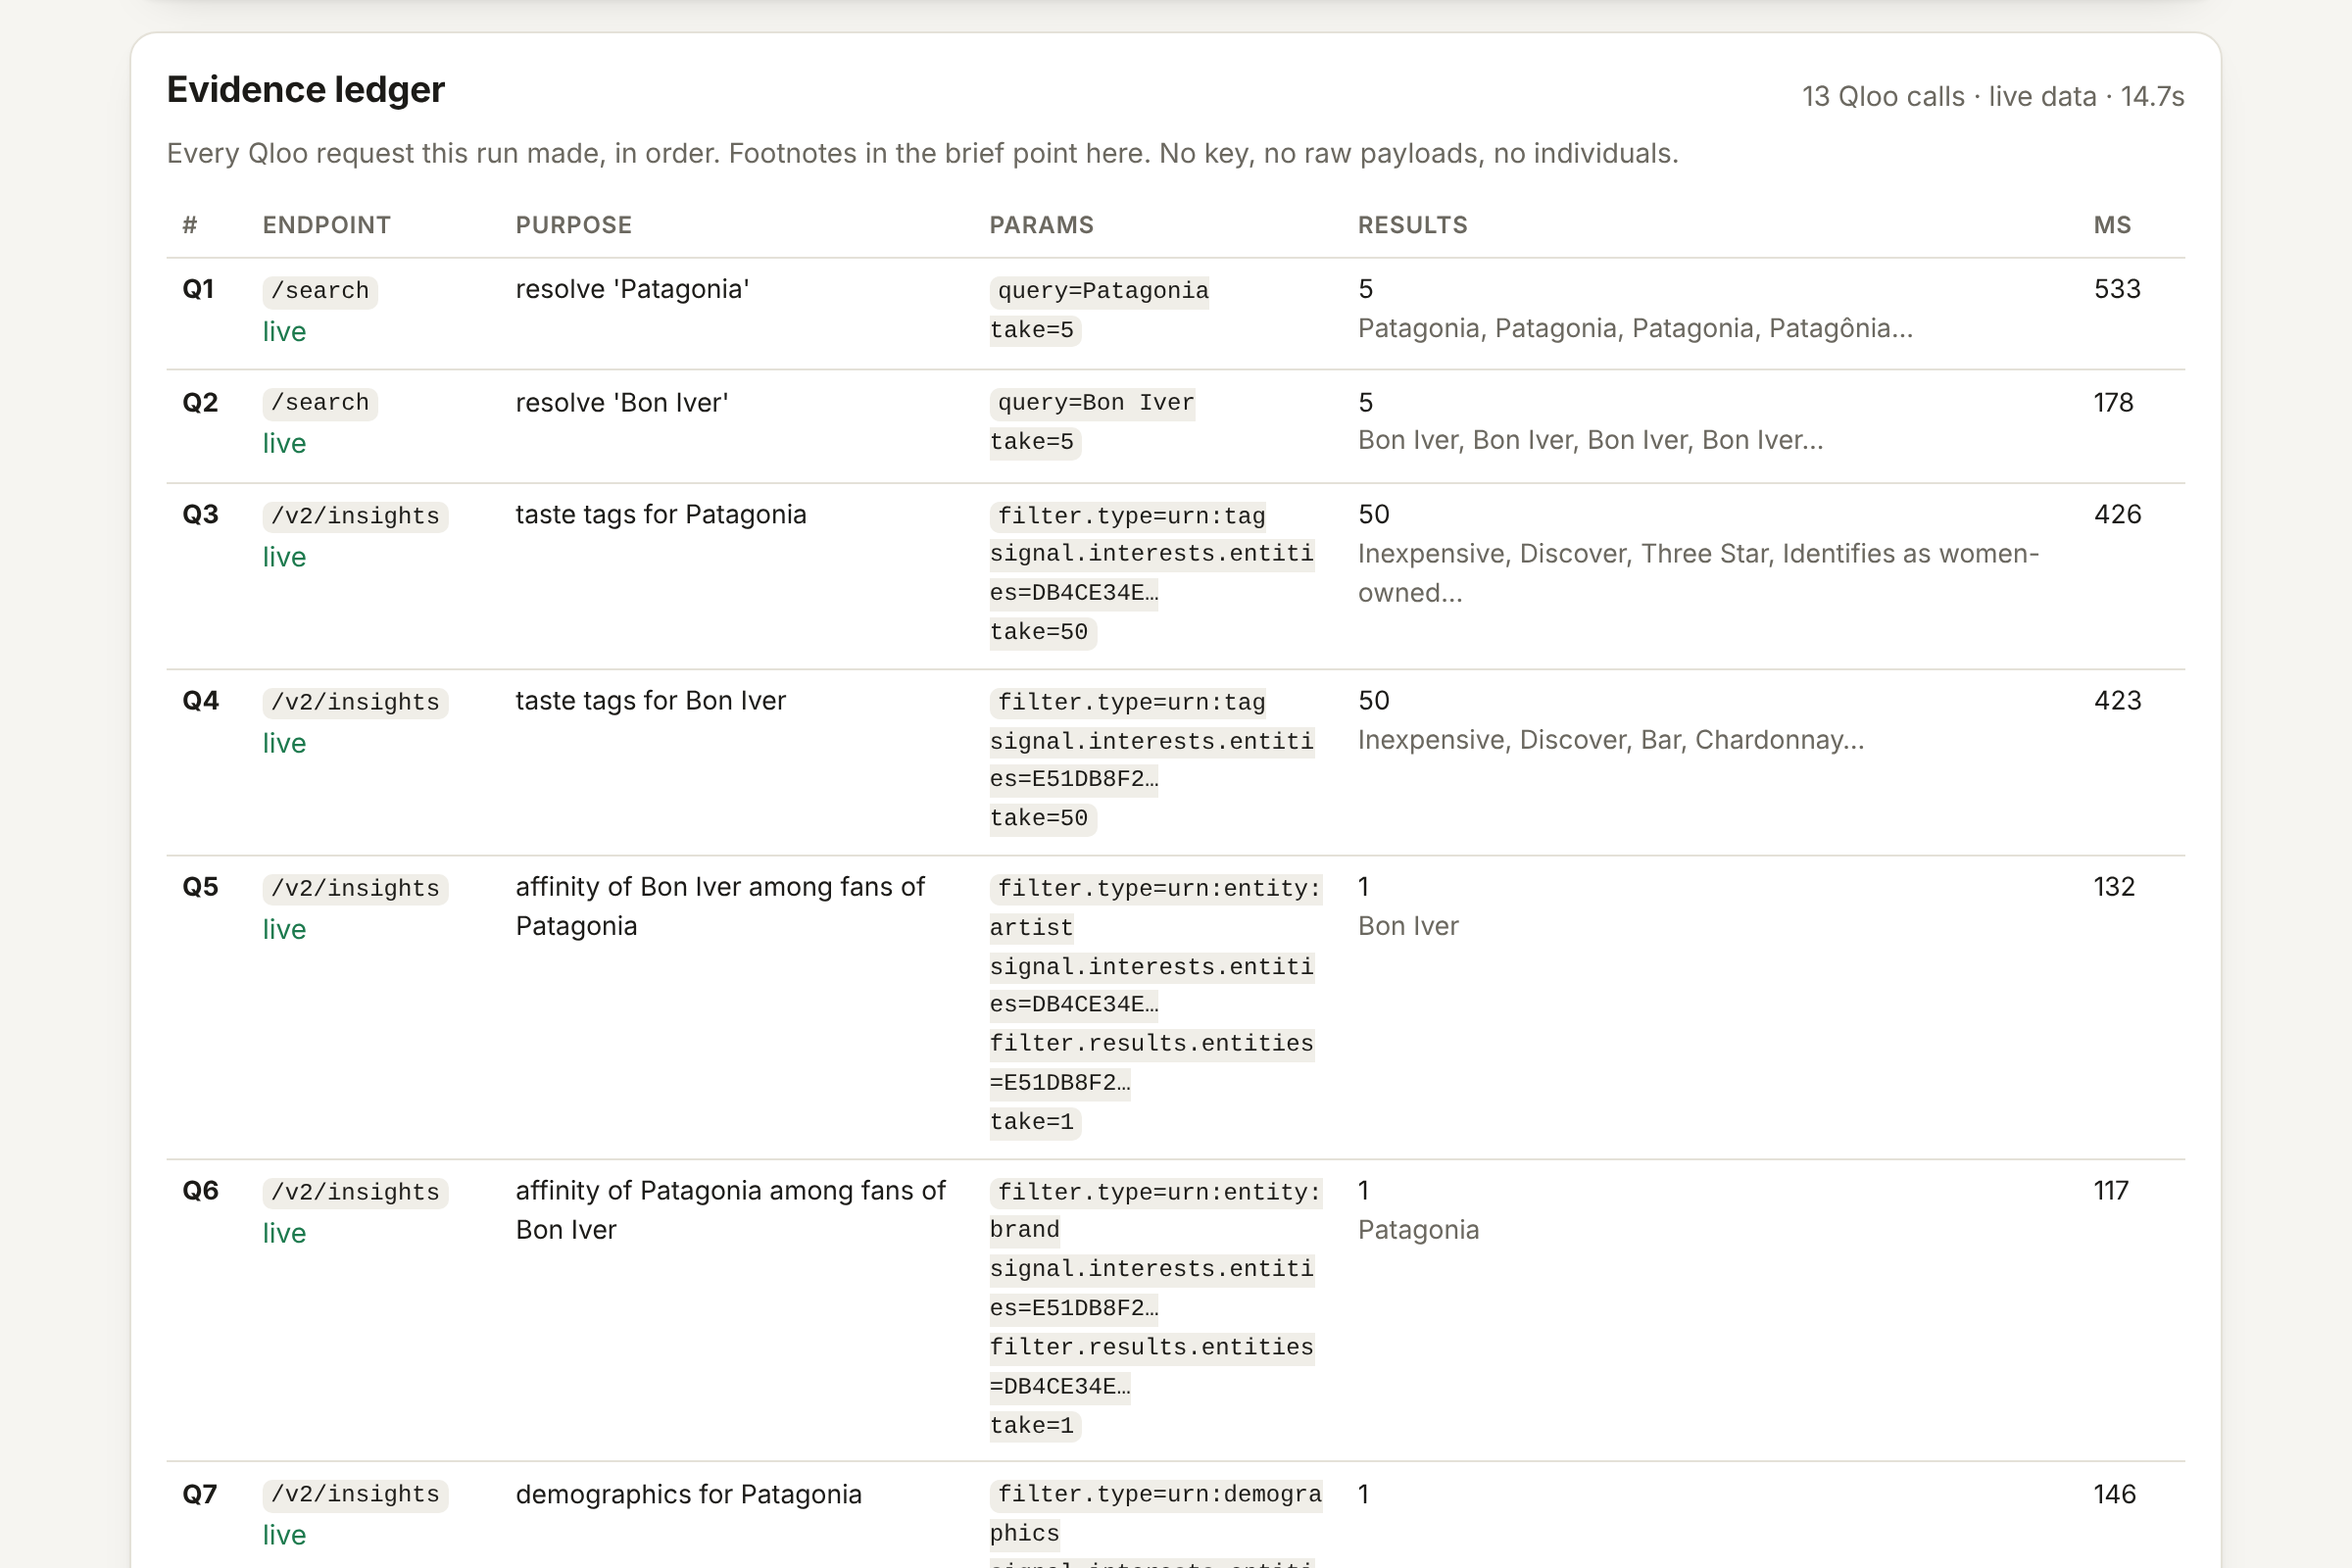
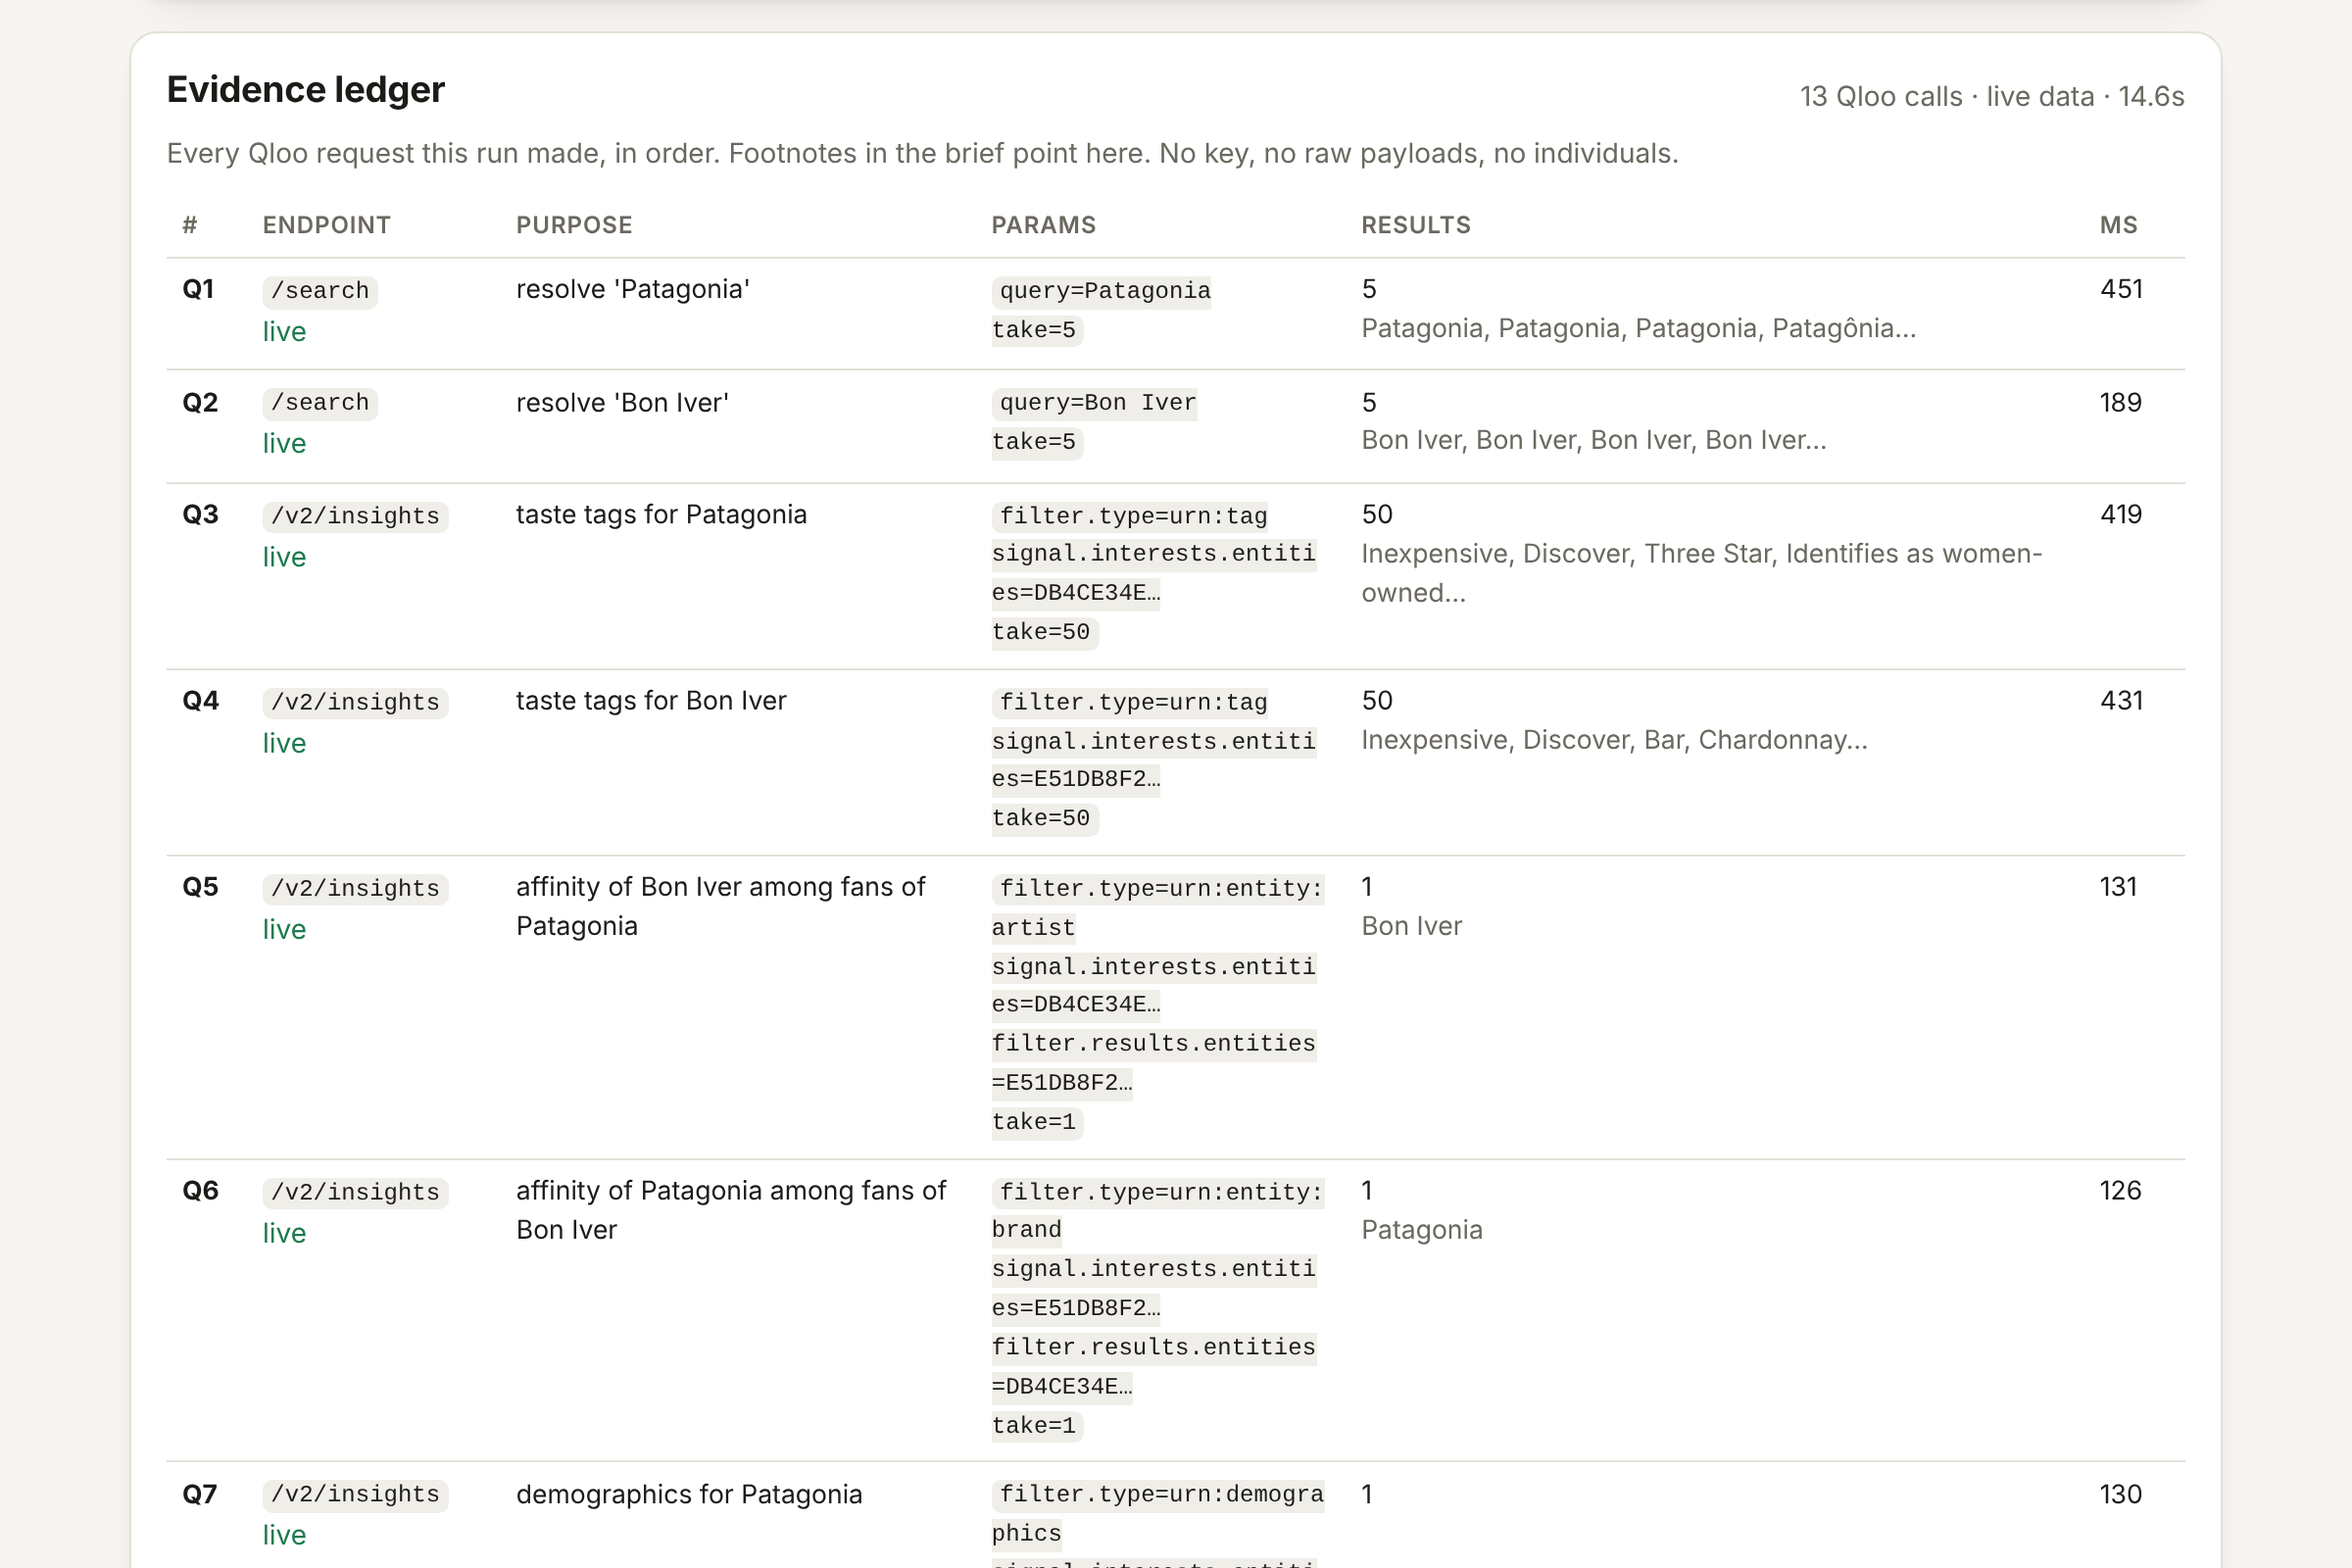
Reshoot the gallery on the final d81a0df and set About to 52 tests
Claude-Session: https://claude.ai/code/session_01P4iabNDccHbKB47Y3Gj9Mb

diff --git a/docs/devpost/about.md b/docs/devpost/about.md
@@ -17,7 +17,7 @@ Give Taste-Fit two entities (brand × brand, brand × artist, brand × podcast, 
 - **Agent:** a scripted core gathers the evidence deterministically (about thirteen Qloo calls per run). The writer agent — Claude through the official Anthropic SDK with strict tool schemas, or any OpenAI-compatible endpoint — may call `recommend`, `heatmap` and `find_tags` for more evidence and must submit the brief through a strict `finalize_brief` tool. A scripted writer produces the same structure when no LLM key is set, so the product is complete end to end either way.
 - **Evidence ledger:** every Qloo request is numbered (endpoint, redacted parameters, result count, names, duration, cache hit). The UI renders it as a table; footnotes in the brief jump to the row.
 - **Quota and safety:** per-run call cap, daily budget, six-hour cache, bounded retries honouring `Retry-After`, per-visitor rate limit, and a labelled demo-data fallback. The key lives only in a server-side environment variable and the `X-Api-Key` header.
-- **Stack:** Python 3.13, FastAPI with Server-Sent Events for live agent progress, a vanilla-JS UI with Leaflet, Docker on Render's free web service. A deterministic demo world shaped like Qloo responses powers 51 tests and offline runs. Open source under the MIT license.
+- **Stack:** Python 3.13, FastAPI with Server-Sent Events for live agent progress, a vanilla-JS UI with Leaflet, Docker on Render's free web service. A deterministic demo world shaped like Qloo responses powers 52 tests and offline runs. Open source under the MIT license.
 
 ## Challenges we ran into
 - Making an LLM useful without letting it invent audience facts. We separated evidence gathering (scripted, logged) from writing (tool-gated, strict schema) and added a verifier that checks every citation and entity against the ledger.
